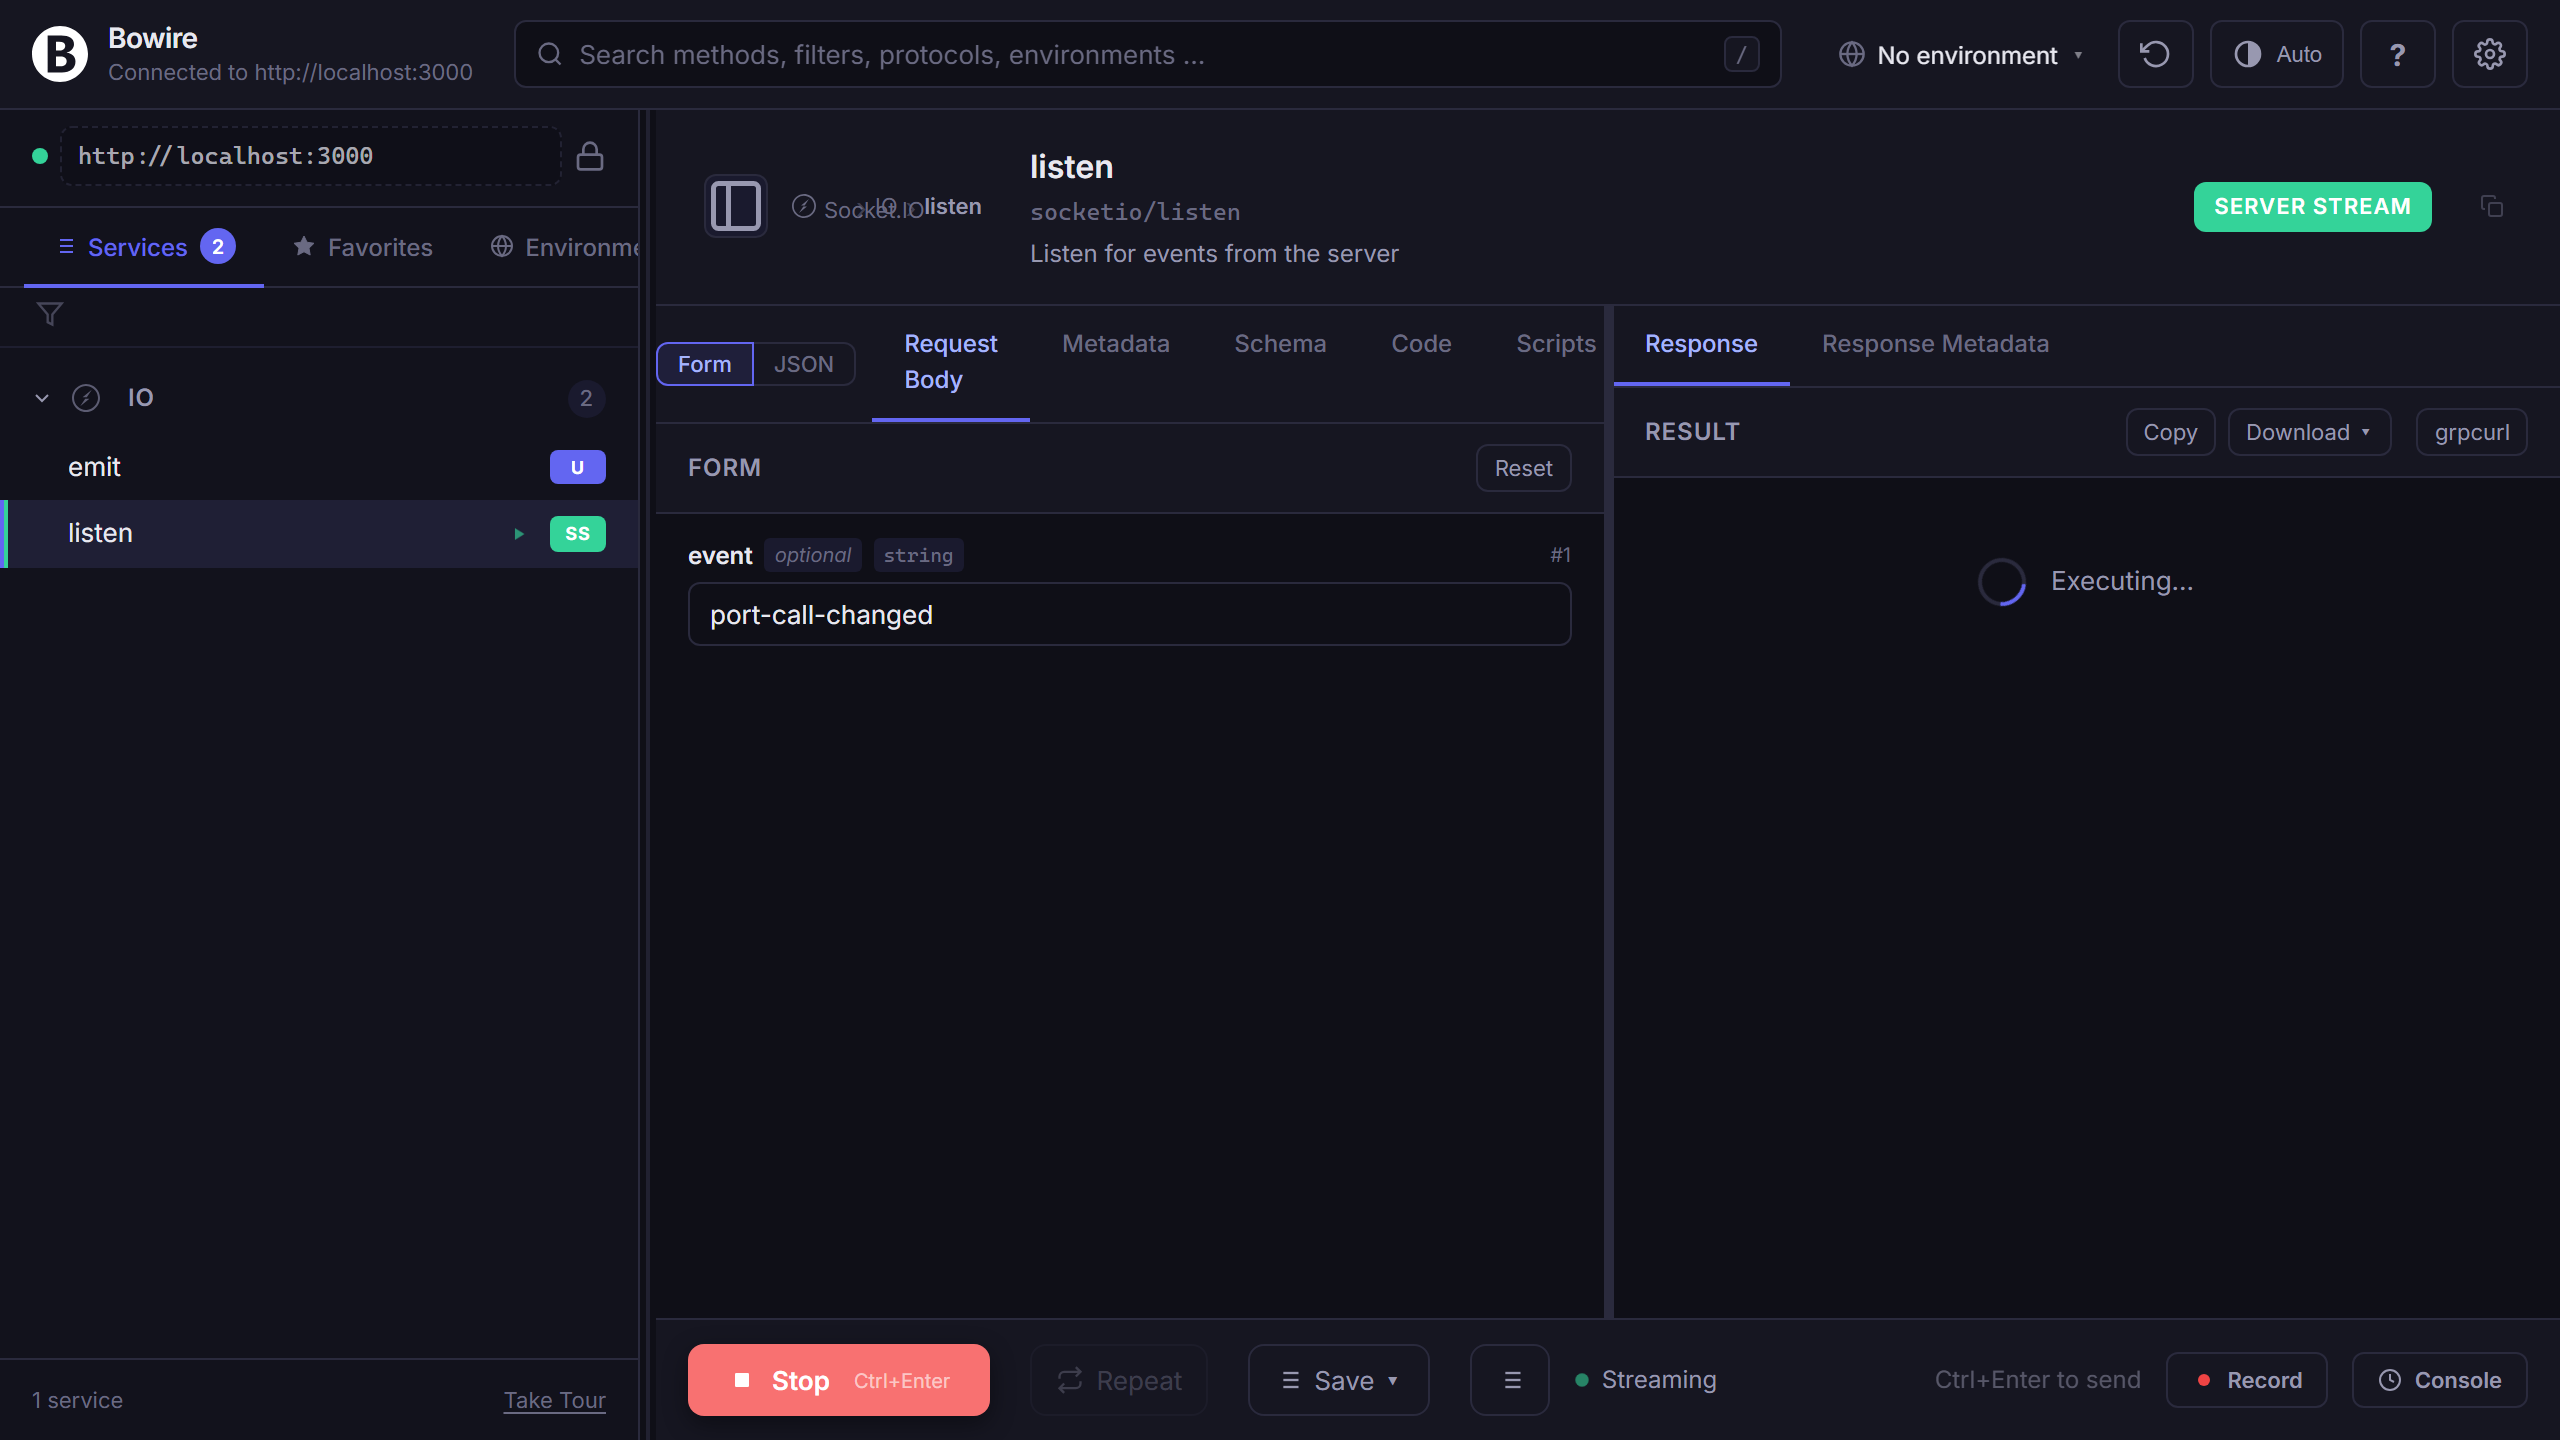
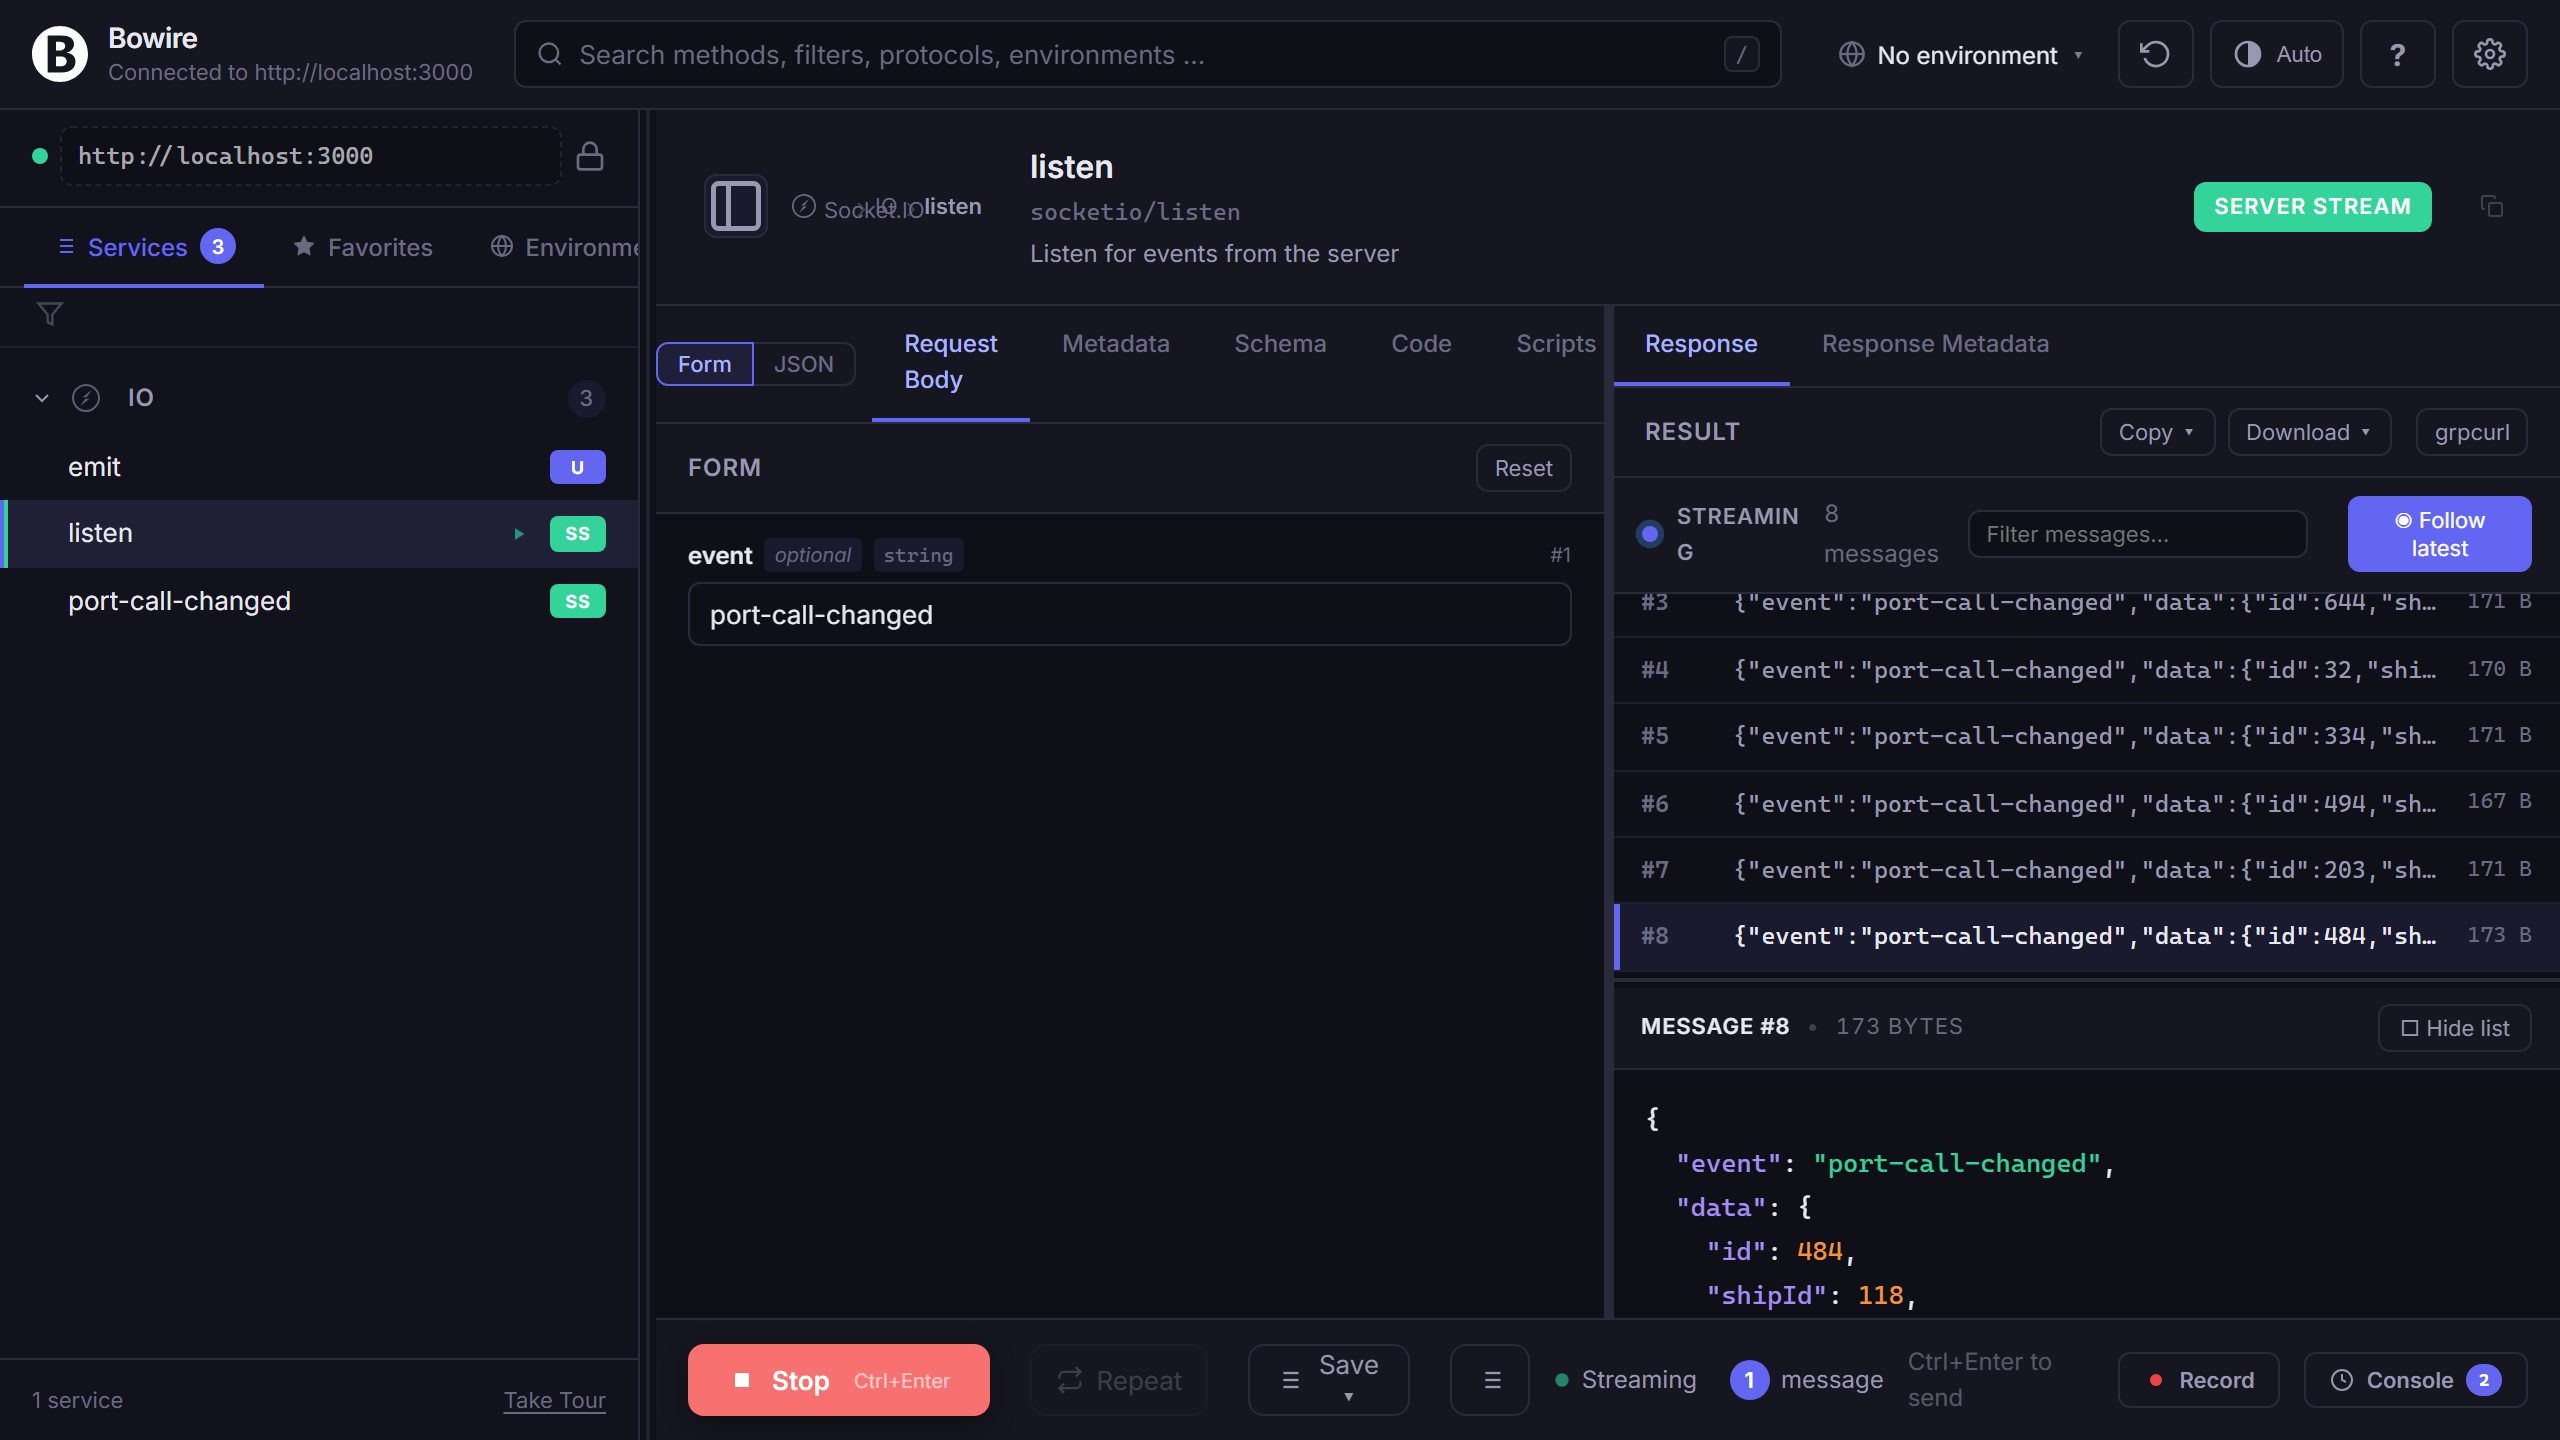
release: 1.0.9-rc.2 — Socket.IO payload extraction
Found during the rc.1 smoke pass against Bowire.Samples.SocketIo.

Fixes
- Socket.IO plugin: payload was reported as "SocketIOClient.EventContext".
  The plugin called response?.ToString() on the SocketIOClient callback
  context, which returned the type name rather than the event arguments.
  Stream pane and unary-emit responses both lost the actual payload —
  only the event name survived. Switched to IEventContext.RawText
  (the JSON array ["eventName", arg1, ...]) with leading-element strip
  and single-arg unwrap so the user sees the same shape the underlying
  transport delivered.
- Socket.IO plugin: `event` field in the form body was ignored for the
  catch-all `listen` method. The filter only fired for dynamically-
  discovered per-event methods. Now the listen method also honours an
  `event` filter from the request body.

Site
- Re-captured streaming-socketio-{dark,light}.png with the payload fix.
  The frame pane now shows {id, shipId, dockNumber, status, at} per
  event instead of a string with the type name.

diff --git a/src/Kuestenlogik.Bowire.Protocol.SocketIo/BowireSocketIoProtocol.cs b/src/Kuestenlogik.Bowire.Protocol.SocketIo/BowireSocketIoProtocol.cs
@@ -108,7 +108,11 @@ public sealed class BowireSocketIoProtocol : IBowireProtocol
 
             client.OnAny((name, response) =>
             {
-                tcs.TrySetResult(JsonSerializer.Serialize(new { @event = name, data = response?.ToString() }));
+                tcs.TrySetResult(JsonSerializer.Serialize(new
+                {
+                    @event = name,
+                    data = ExtractPayload(response)
+                }));
                 return Task.CompletedTask;
             });
 
@@ -132,19 +136,47 @@ public sealed class BowireSocketIoProtocol : IBowireProtocol
         [EnumeratorCancellation] CancellationToken ct = default)
     {
         var url = serverUrl.TrimEnd('/');
+
+        // Optional event-name filter from the form body. When present, only
+        // events whose name matches are forwarded — the same shape SSE uses
+        // for its `url` override. Empty / missing means "every event".
+        string? eventFilter = null;
+        if (jsonMessages.Count > 0)
+        {
+            try
+            {
+                using var doc = JsonDocument.Parse(jsonMessages[0]);
+                if (doc.RootElement.TryGetProperty("event", out var evProp))
+                {
+                    var v = evProp.GetString();
+                    if (!string.IsNullOrEmpty(v)) eventFilter = v;
+                }
+            }
+            catch (JsonException) { /* ignore — empty filter */ }
+        }
+
+        // method == "listen" is the generic catch-all method. Dynamically
+        // discovered events surface as their own per-event method, in which
+        // case `method` is the event name itself.
+        var specificEvent = eventFilter ?? (method != "listen" ? method : null);
+
         var channel = System.Threading.Channels.Channel.CreateUnbounded<string>();
 
         using var client = new SocketIOClient.SocketIO(new Uri(url), new SocketIOOptions
         { Reconnection = false, ConnectionTimeout = TimeSpan.FromSeconds(10) });
-
-        var specificEvent = method != "listen" ? method : null;
 
         client.OnAny((name, response) =>
         {
             if (specificEvent != null && name != specificEvent) return Task.CompletedTask;
             channel.Writer.TryWrite(JsonSerializer.Serialize(new
             {
-                @event = name, data = response?.ToString(), timestamp = DateTime.UtcNow
+                @event = name,
+                // ctx.RawText is `["eventName", arg1, arg2, ...]`. The plugin
+                // strips the leading event-name token so the user sees just
+                // the payload they cared about; falls back to the raw text
+                // when parsing fails.
+                data = ExtractPayload(response),
+                timestamp = DateTime.UtcNow
             }));
             return Task.CompletedTask;
         });
@@ -156,6 +188,37 @@ public sealed class BowireSocketIoProtocol : IBowireProtocol
                 yield return msg;
         }
         finally { await client.DisconnectAsync(); }
+    }
+
+    /// <summary>
+    /// Extract the user-visible payload from a SocketIOClient response.
+    /// SocketIOClient 4.x exposes the full frame as RawText (the JSON
+    /// array <c>["eventName", arg1, ...]</c>); ToString() returns the
+    /// type name <c>SocketIOClient.EventContext</c> which is useless to
+    /// users. Strip the event-name leading element and unwrap a single
+    /// remaining argument so the streaming-pane shows the raw payload.
+    /// </summary>
+    private static JsonElement? ExtractPayload(SocketIOClient.IEventContext? ctx)
+    {
+        if (ctx is null) return null;
+        var raw = ctx.RawText;
+        if (string.IsNullOrEmpty(raw)) return null;
+        try
+        {
+            using var doc = JsonDocument.Parse(raw);
+            if (doc.RootElement.ValueKind != JsonValueKind.Array) return doc.RootElement.Clone();
+            var args = doc.RootElement.EnumerateArray().Skip(1).ToList();
+            return args.Count switch
+            {
+                0 => null,
+                1 => args[0].Clone(),
+                _ => JsonSerializer.SerializeToElement(args.Select(a => a.Clone()).ToArray())
+            };
+        }
+        catch (JsonException)
+        {
+            return JsonSerializer.SerializeToElement(raw);
+        }
     }
 
     public Task<IBowireChannel?> OpenChannelAsync(

diff --git a/CHANGELOG.md b/CHANGELOG.md
@@ -1,5 +1,33 @@
 # Changelog
 
+## v1.0.9-rc.2 — Socket.IO payload extraction (2026-05-04)
+
+Found during the rc.1 smoke pass.
+
+### Fixes
+- **Socket.IO plugin: payload was `"SocketIOClient.EventContext"`**.
+  The plugin called `response?.ToString()` on the SocketIOClient
+  callback context, which returned the type name rather than the
+  event arguments. Stream pane and unary-emit responses both lost
+  the actual payload — only the event name survived. Switched to
+  `IEventContext.RawText` (the JSON array `["eventName", arg1, …]`)
+  with leading-element strip and single-arg unwrap so the user
+  sees the same shape the underlying transport delivered.
+- **Socket.IO plugin: `event` field in the form body was ignored
+  for the catch-all `listen` method**. The filter only fired for
+  dynamically-discovered per-event methods. Now the listen
+  method also honours an `event` filter from the request body —
+  empty / missing means "every event" as before.
+
+### Tests
+- Existing 712 + 7 factory tests still green; no Socket.IO tests
+  added in this RC because the plugin pulls in the full
+  `SocketIOClient` runtime which makes meaningful unit-tests
+  fixture-heavy. Manual smoke against
+  `Bowire.Samples.SocketIo/server.js` confirmed: 8 events
+  captured with full `{id, shipId, dockNumber, status, at}`
+  payload visible in the streaming-frame pane.
+
 ## v1.0.9-rc.1 — Shared HttpClient factory for cert-trust opt-in (2026-05-04)
 
 First release-candidate of the cert-trust generalisation that 1.0.3

diff --git a/ROADMAP.md b/ROADMAP.md
@@ -2,6 +2,10 @@
 
 ## Completed
 
+### v1.0.9-rc.2 — Socket.IO payload extraction (2026-05-04)
+- [x] **Socket.IO plugin: `RawText` instead of `ToString()`**. `response.ToString()` returned `"SocketIOClient.EventContext"`; the streaming-pane lost every event's actual payload. Switched to `IEventContext.RawText` with leading-event-name strip + single-arg unwrap. Found during rc.1 smoke against `Bowire.Samples.SocketIo`.
+- [x] **Socket.IO plugin: catch-all `listen` honours form-body `event` filter** so `event: port-call-changed` actually narrows the stream (was only respected on dynamically-discovered per-event methods).
+
 ### v1.0.9-rc.1 — Shared HttpClient factory for cert-trust (2026-05-04)
 - [x] **`BowireHttpClientFactory`** in `Kuestenlogik.Bowire/Net/`. Validation callback consults `LocalhostCertTrust` on every request, defence-in-depth gates on loopback URL.
 - [x] **REST, GraphQL, SSE, MCP, OData** plugins migrated from `static s_http` to instance `_http` built in `Initialize()`. HttpClient count per process unchanged (one per plugin singleton).
